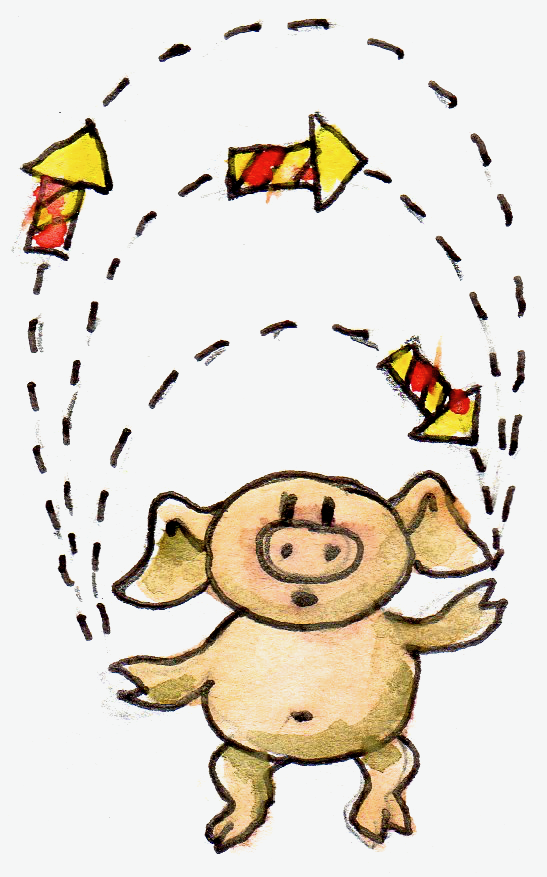
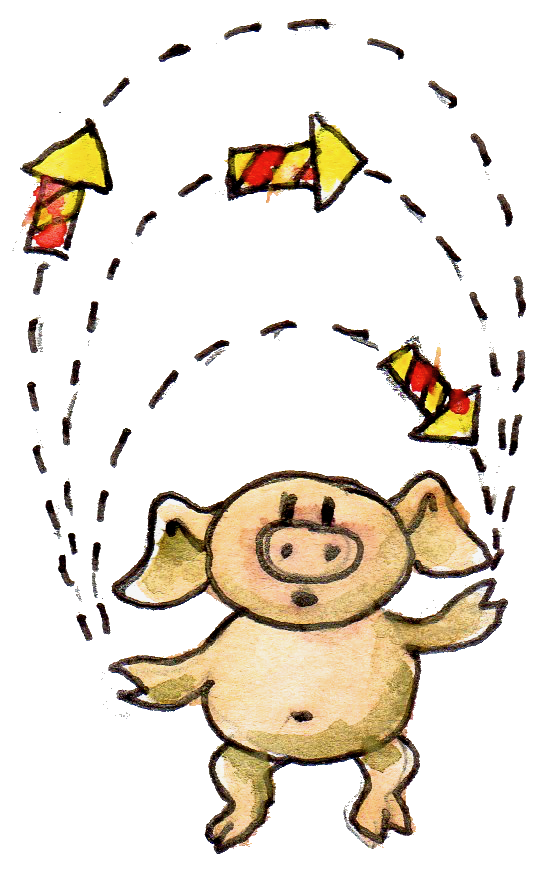
Adjusting background color, transparency

diff --git a/src/cover/cover.tex b/src/cover/cover.tex
@@ -13,15 +13,27 @@
 \usepackage{Alegreya} %% Option 'black' gives heavier bold face 
 
 \newcommand{\olpath}{../}
+\newcommand{\whitebg}[1]{%
+\tikz\node[circle,draw,minimum size=.9cm,
+fill=white,
+path picture={
+    \node at (path picture bounding box){
+        \includegraphics[width=.9cm]{\olpath#1}
+    };
+}]{};
+}
 
-\definecolor{FrontPageColor}{RGB}{245,246,246}
+% \newcommand{\tikzcircle}[2][red,fill=red]{\tikz[baseline=-0.5ex]\draw[#1,radius=#2] (0,0) circle ;}%
+
+
+\definecolor{BackgroundColor}{HTML}{f3f6ed}
 \definecolor{SpineBackColor}{HTML}{262626}
 \definecolor{SpineFontColor}{RGB}{248,154,14}
 
 \begin{document}
 
 \begin{bookcover}
-  \bookcovercomponent{color}{bg whole}{color=FrontPageColor}
+  \bookcovercomponent{color}{bg whole}{color=BackgroundColor}
   \bookcovercomponent{color}{spine}{color=SpineBackColor}
   \bookcovercomponent{normal}{front}{
   \vspace{2.5cm}
@@ -77,10 +89,10 @@
           by Bartosz Milewski is licensed under a Creative Commons Attribution 4.0
           International License.\\
       \break
-      \begin{minipage}[b]{3cm}
-        \includegraphics[width=.9cm]{\olpath/fig/icons/by}
-        \includegraphics[width=.9cm]{\olpath/fig/icons/cc}
-        \includegraphics[width=.9cm]{\olpath/fig/icons/sa}
+      \begin{minipage}[b]{4cm}
+        \whitebg{/fig/icons/by}
+        \whitebg{/fig/icons/cc}
+        \whitebg{/fig/icons/sa}
       \end{minipage}
   
       \break
